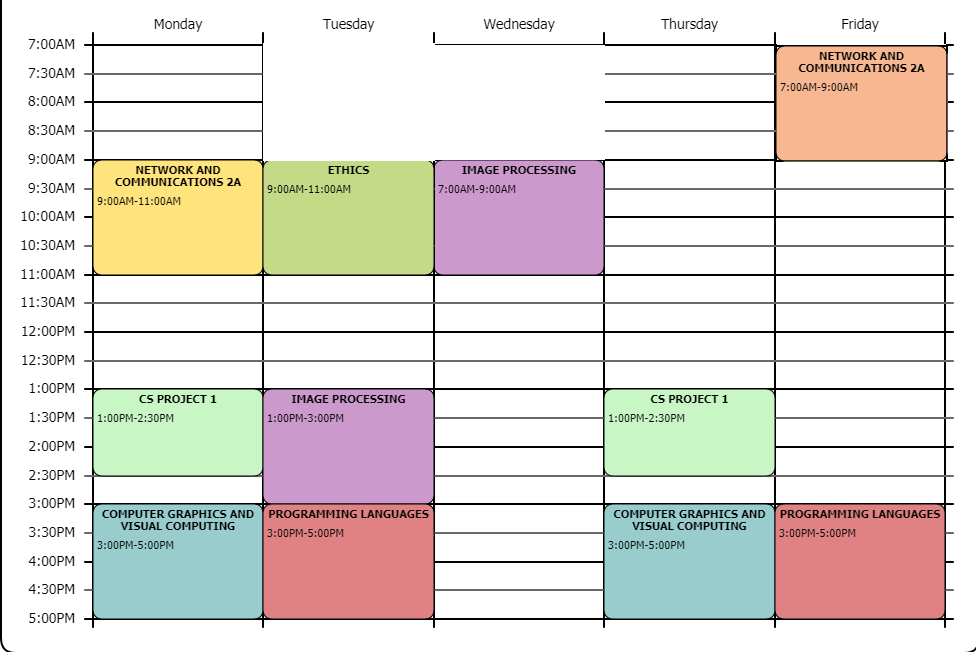
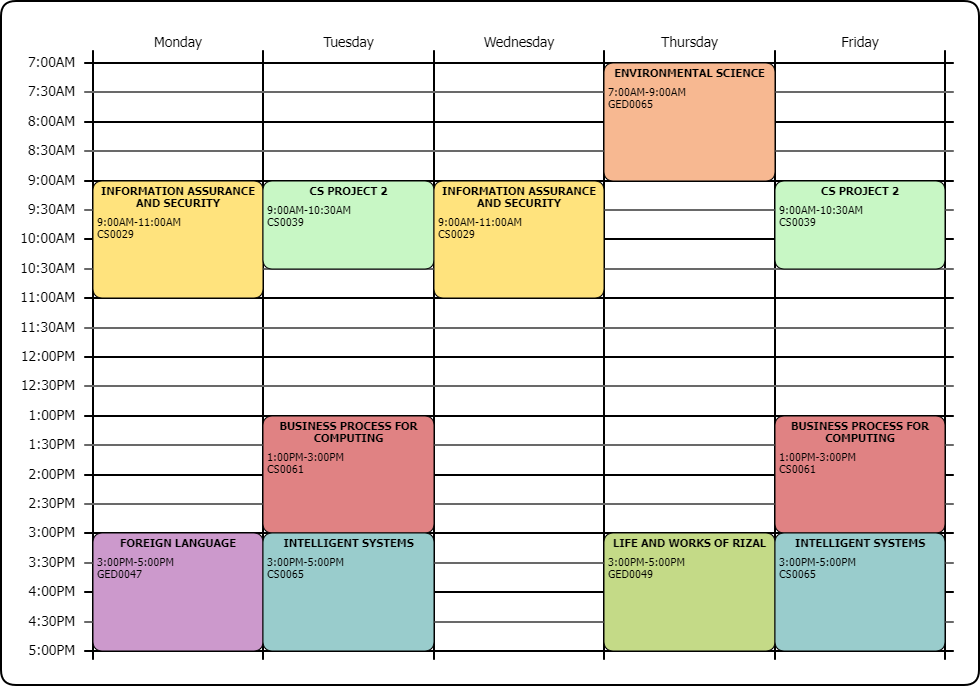
partial update for 2ndterm 4thyr

diff --git a/index.html b/index.html
@@ -14,38 +14,44 @@
         <th>LINK</th>
       </tr>
       <tr>
-        <td>NETWORKING</td>
+        <td>INFORMATION ASSURANCE AND SECURITY</td>
         <td class="link">
           <a href="https://feu.instructure.com/courses/73274/modules"> -> </a>
         </td>
       </tr>
 
       <tr>
-        <td>CSPROJECT</td>
+        <td>FOREIGN LANGUAGE</td>
         <td class="link">
           <a href="https://feu.instructure.com/courses/73192/modules"> -> </a>
         </td>
       </tr>
       <tr>
-        <td>CMP GRAPHICS</td>
+        <td>CS PROJECT 2</td>
         <td class="link">
           <a href="https://feu.instructure.com/courses/73216/modules"> -> </a>
         </td>
       </tr>
       <tr>
-        <td>ETHICS</td>
+        <td>BUSINESS PROCESS FOR COMPUTING</td>
         <td class="link">
           <a href="https://feu.instructure.com/courses/73039/modules"> -> </a>
         </td>
       </tr>
       <tr>
-        <td>IMAGE PROCESSING</td>
+        <td>INTELLIGENT SYSTEMS</td>
         <td class="link">
           <a href="https://feu.instructure.com/courses/73249/modules"> -> </a>
         </td>
       </tr>
       <tr>
-        <td>PROGRAMMING LANG</td>
+        <td>ENVIRONMENTAL SCIENCE</td>
+        <td class="link">
+          <a href="https://feu.instructure.com/courses/73202/modules"> -> </a>
+        </td>
+      </tr>
+      <tr>
+        <td>LIFE AND WORKS OF RIZAL</td>
         <td class="link">
           <a href="https://feu.instructure.com/courses/73202/modules"> -> </a>
         </td>
